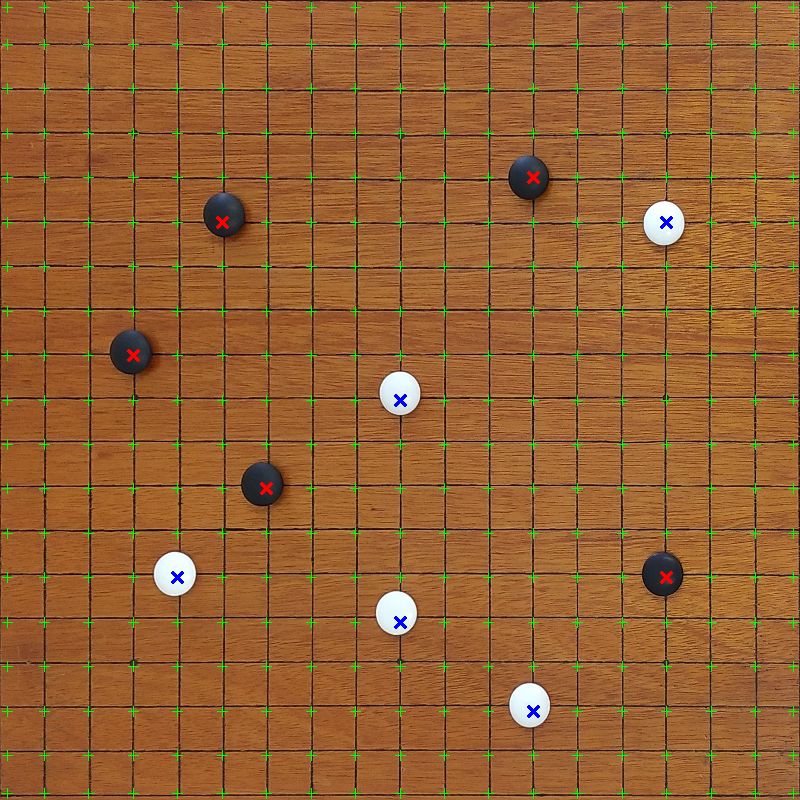
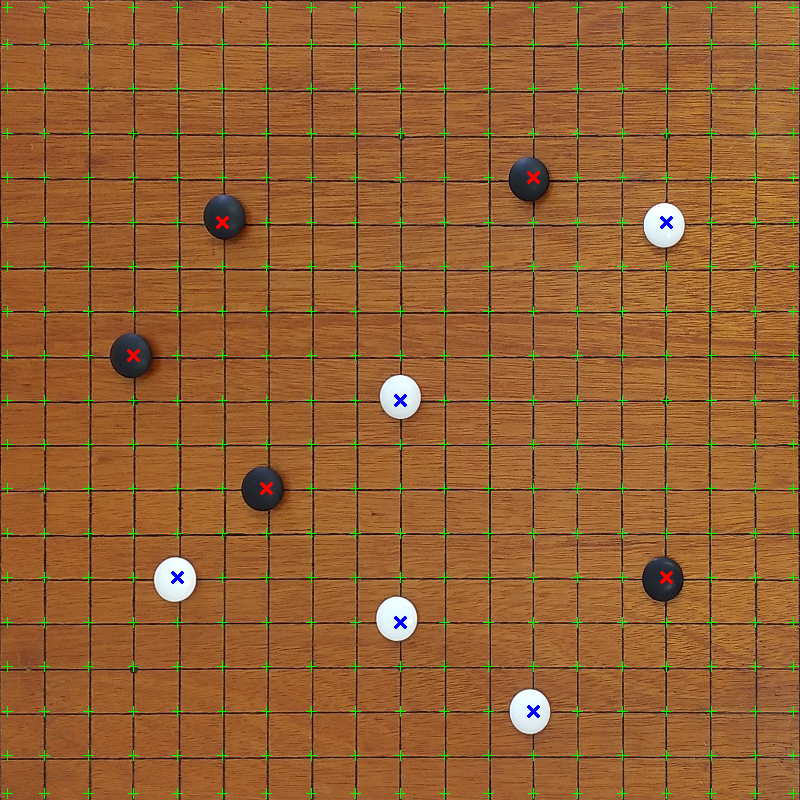
偽碁盤情報をcsvから取得

Changed region(s): [[0.0, 0.0312, 1.0, 1.0], [0.1875, 0.0312, 0.2188, 0.0625]]

diff --git a/PyTest_v2.py b/PyTest_v2.py
@@ -109,8 +109,6 @@ with open('./Results/stonePosition.csv', 'w', newline="") as f:
     writer = csv.writer(f)
     writer.writerows(stonePosition)
 
-# print("stonePosition: \n" + str(stonePosition).replace("], [","], \n[") + "\n")
-
 # 結果
 resultImg = MOD.drawTerritoryColor(boardImg,stonePosition)
 cv2.imshow("resultImg",resultImg)
@@ -120,34 +118,13 @@ cv2.imwrite('./Results/resultIMG.png', resultImg)
 print("END")
 
 '''
-
-# 偽の碁盤情報（四隅の情報が違う）を用意、stonePositionと比較
-dummy = [
-["W", "B", "B", "W", "W", "N", "N", "N", "N", "N", "N", "N", "N", "N", "W", "W", "W", "W", "W"], 
-["N", "B", "W", "W", "N", "W", "N", "N", "N", "N", "N", "W", "W", "N", "W", "B", "W", "B", "B"], 
-["N", "B", "W", "B", "W", "W", "N", "N", "N", "W", "W", "B", "W", "W", "B", "B", "B", "B", "N"], 
-["N", "N", "B", "B", "B", "W", "W", "W", "W", "B", "B", "B", "W", "B", "B", "B", "B", "N", "N"], 
-["N", "N", "B", "W", "W", "B", "B", "B", "B", "B", "N", "B", "W", "B", "W", "W", "B", "N", "N"], 
-["N", "N", "B", "W", "W", "W", "B", "W", "B", "W", "B", "N", "B", "B", "W", "W", "B", "N", "N"], 
-["N", "N", "N", "B", "B", "W", "W", "W", "W", "W", "B", "B", "W", "W", "W", "B", "N", "N", "N"], 
-["N", "N", "B", "B", "W", "N", "W", "B", "B", "B", "B", "B", "W", "B", "W", "B", "B", "B", "B"], 
-["N", "N", "B", "W", "W", "N", "W", "B", "B", "W", "W", "B", "W", "B", "W", "W", "B", "W", "B"], 
-["N", "B", "W", "N", "N", "N", "W", "W", "B", "B", "W", "B", "B", "B", "B", "W", "B", "W", "W"], 
-["N", "B", "W", "N", "N", "N", "W", "B", "B", "B", "W", "W", "W", "W", "W", "B", "N", "W", "N"], 
-["B", "B", "W", "N", "N", "W", "B", "B", "W", "W", "N", "N", "N", "N", "N", "N", "W", "N", "N"], 
-["W", "B", "W", "W", "W", "W", "W", "W", "W", "B", "N", "N", "N", "N", "N", "W", "B", "W", "W"], 
-["W", "W", "W", "B", "B", "B", "W", "B", "B", "W", "W", "N", "N", "N", "N", "W", "B", "W", "W"], 
-["N", "W", "B", "B", "B", "B", "B", "N", "B", "W", "W", "N", "N", "N", "W", "B", "B", "B", "W"], 
-["W", "W", "W", "W", "W", "B", "N", "B", "N", "B", "B", "W", "W", "W", "W", "W", "B", "B", "W"], 
-["B", "W", "B", "W", "W", "B", "N", "W", "B", "B", "B", "W", "B", "B", "W", "W", "W", "B", "B"], 
-["B", "B", "B", "B", "B", "N", "N", "N", "N", "N", "B", "B", "N", "B", "B", "W", "B", "B", "N"], 
-["W", "N", "N", "N", "N", "N", "N", "N", "N", "N", "N", "N", "N", "N", "N", "B", "N", "N", "W"]]
-
-# ndarrayを比較演算子で比較すると，各要素に対して一致してるかどうかの真理値を返す．
-compare = np.array(stonePosition) == np.array(dummy)    
-# 比較結果を画像に重ねる．
-resultDummyCompare = MOD.drawCompareStone(boardImg, compare)
-cv2.imshow("compare", resultDummyCompare)
-cv2.waitKey(0)
-
+with open('./Results/dummyPosition.csv', 'r', newline="") as f: # 偽の碁盤情報をdummyPosition.csvから取得，比較を行う
+    reader = csv.reader(f)
+    l = [row for row in reader]
+    # ndarrayを比較演算子で比較すると，各要素に対して一致してるかどうかの真理値を返す．
+    compare = np.array(stonePosition) == np.array(l)    
+    # 比較結果を画像に重ねる．
+    resultDummyCompare = MOD.drawCompareStone(boardImg, compare)
+    cv2.imshow("compare", resultDummyCompare)
+    cv2.waitKey(0)
 '''
